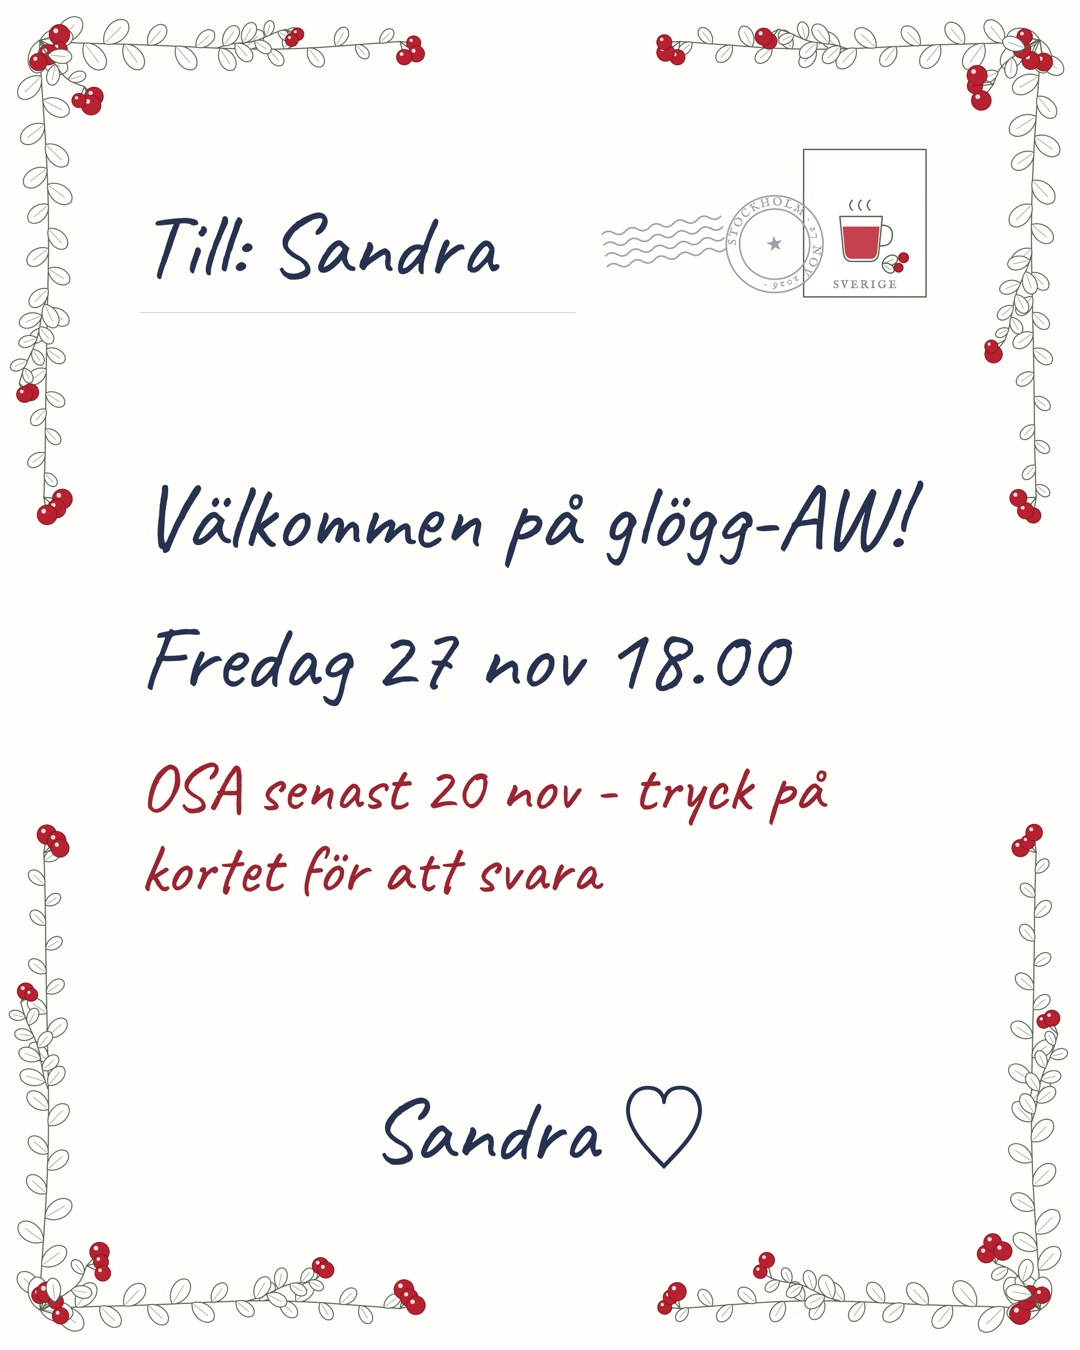
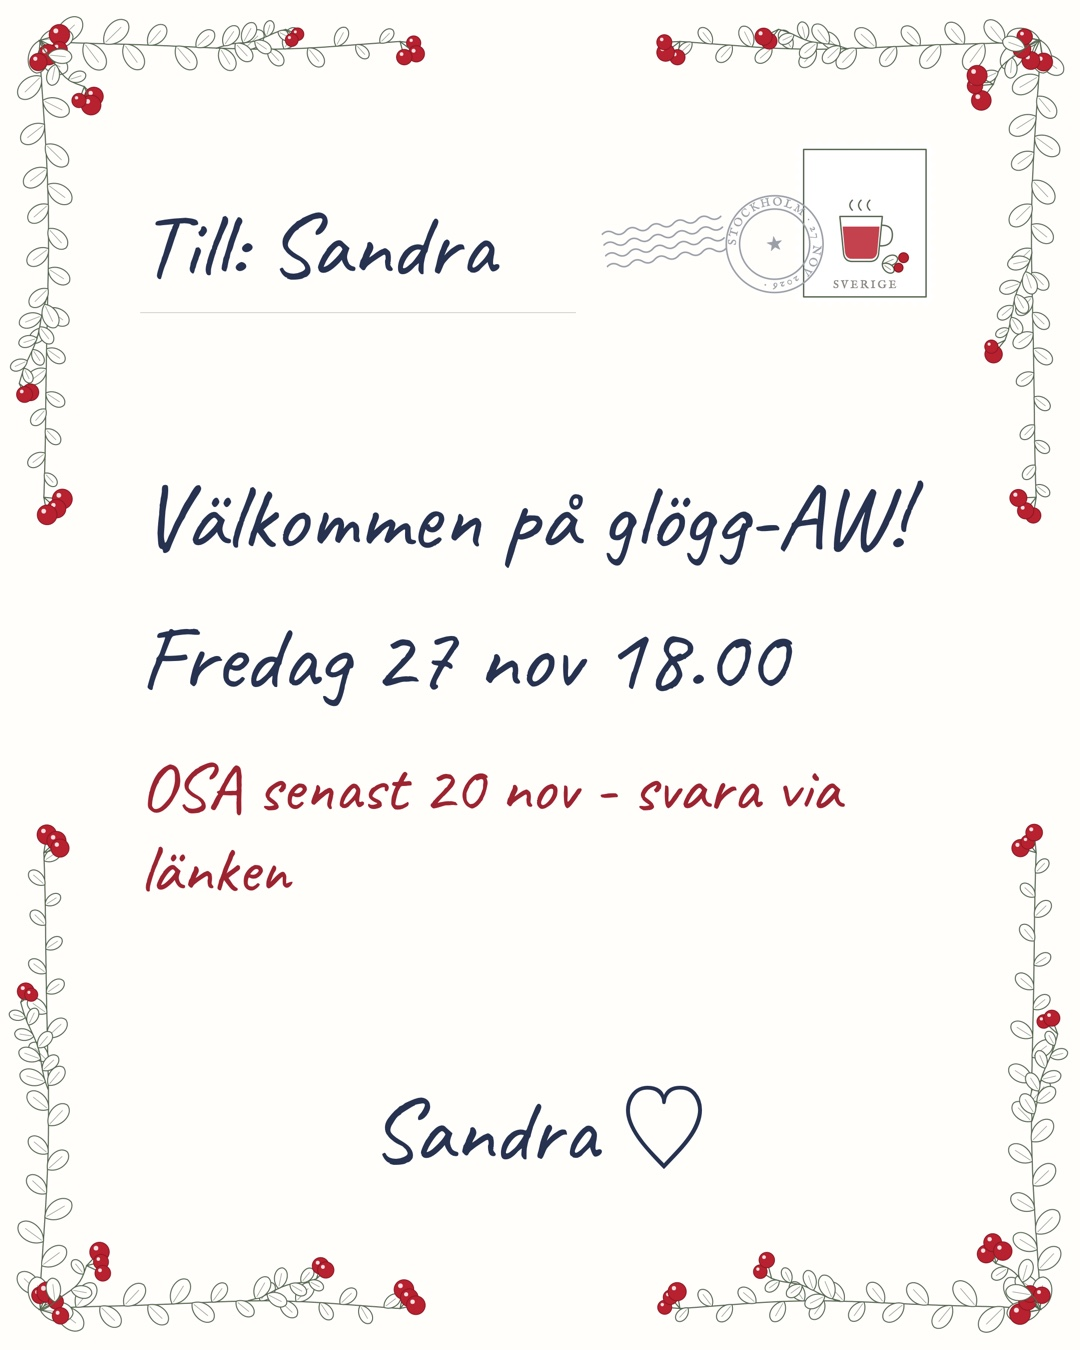
Send the invite as a photo: Kort and Bildtext columns; card says svara via länken

Changed region(s): [[0.5806, 0.56, 0.7944, 0.6222], [0.1222, 0.6222, 0.3361, 0.6844], [0.3667, 0.6222, 0.55, 0.6844]]

diff --git a/card.html b/card.html
@@ -30,9 +30,9 @@
 <script>
   const T = {
     sv: { to: 'Till: dig ♡', msg: 'Välkommen på glögg-AW!', when: 'Fredag 27 nov 18.00',
-          osa: 'OSA senast 20 nov - tryck på kortet för att svara', from: 'Sandra ♡' },
+          osa: 'OSA senast 20 nov - svara via länken', from: 'Sandra ♡' },
     en: { to: 'To: you ♡', msg: 'Welcome to glögg after work!', when: 'Friday 27 Nov 6 pm',
-          osa: 'RSVP by 20 Nov - tap the card to reply', from: 'Sandra ♡' },
+          osa: 'RSVP by 20 Nov - reply via the link', from: 'Sandra ♡' },
   };
   const W = 1080, H = 1350;
   const lang = new URLSearchParams(location.search).get('lang') === 'en' ? 'en' : 'sv';

diff --git a/t/sandra-stmfy/index.html b/t/sandra-stmfy/index.html
@@ -8,7 +8,7 @@
 <meta property="og:type" content="website">
 <meta property="og:title" content="Glögg efter jobbet 🍷">
 <meta property="og:description" content="Fredag 27 november – tryck här för att svara">
-<meta property="og:image" content="https://sandragrennard-hash.github.io/glogg/t/sandra-stmfy/card.jpg?v=1793714572">
+<meta property="og:image" content="https://sandragrennard-hash.github.io/glogg/t/sandra-stmfy/card.jpg?v=1793714965">
 <meta property="og:image:width" content="1080">
 <meta property="og:image:height" content="1350">
 <meta name="twitter:card" content="summary_large_image">

diff --git a/index.html b/index.html
@@ -8,7 +8,7 @@
 <meta property="og:type" content="website">
 <meta property="og:title" content="Glögg efter jobbet 🍷">
 <meta property="og:description" content="Fredag 27 november – tryck här för att svara">
-<meta property="og:image" content="https://sandragrennard-hash.github.io/glogg/card-sv.jpg?v=9">
+<meta property="og:image" content="https://sandragrennard-hash.github.io/glogg/card-sv.jpg?v=10">
 <meta property="og:image:width" content="1080">
 <meta property="og:image:height" content="1350">
 <meta name="twitter:card" content="summary_large_image">

diff --git a/en/index.html b/en/index.html
@@ -8,7 +8,7 @@
 <meta property="og:type" content="website">
 <meta property="og:title" content="Glögg after work 🍷">
 <meta property="og:description" content="Friday 27 November – tap here to reply">
-<meta property="og:image" content="https://sandragrennard-hash.github.io/glogg/card-en.jpg?v=9">
+<meta property="og:image" content="https://sandragrennard-hash.github.io/glogg/card-en.jpg?v=10">
 <meta property="og:image:width" content="1080">
 <meta property="og:image:height" content="1350">
 <meta name="twitter:card" content="summary_large_image">
